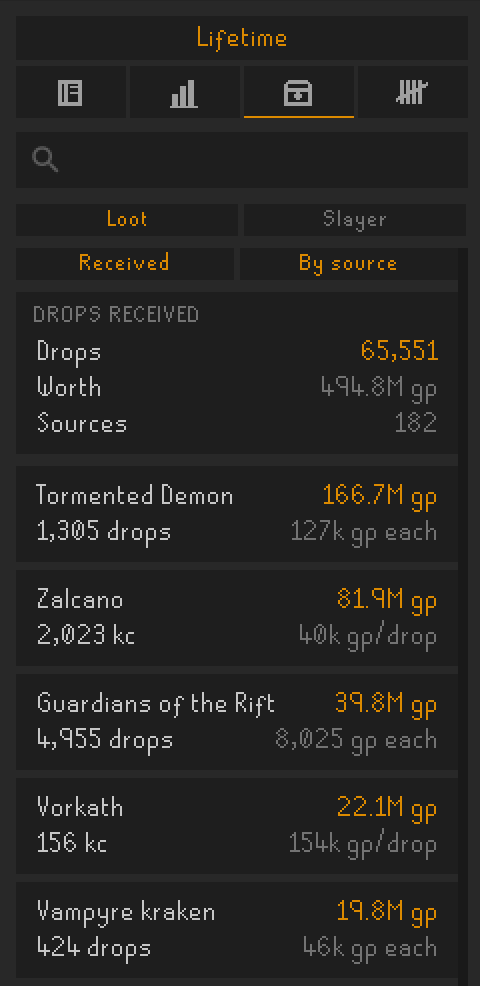
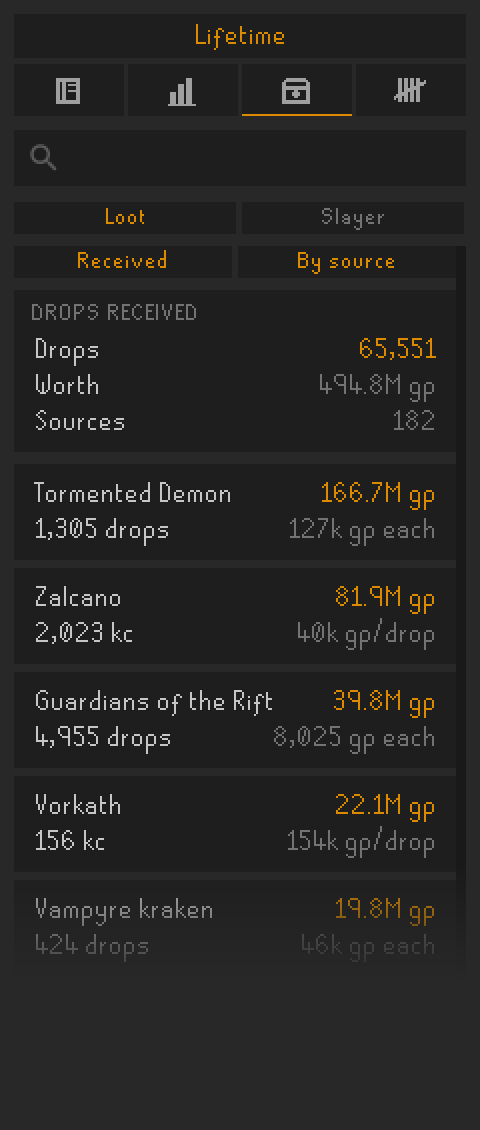
Frame the README screenshots to one size

diff --git a/tools/frame_shot.py b/tools/frame_shot.py
@@ -1,0 +1,43 @@
+"""Put client screenshots of the panel on one canvas size for the README.
+
+    python3 tools/frame_shot.py docs/img/*.png
+"""
+import sys
+from PIL import Image
+
+BG = (40, 40, 40)
+PANEL_W = 452
+MARGIN = 14
+W, H = PANEL_W + 2 * MARGIN, 1130
+FADE = 120
+
+
+def differs(p):
+    return p[3] and max(abs(c - b) for c, b in zip(p[:3], BG)) > 6
+
+
+def frame(path):
+    shot = Image.open(path).convert('RGBA')
+    flat = Image.new('RGBA', shot.size, BG + (255,))
+    flat.alpha_composite(shot)
+    px = flat.load()
+    w, h = flat.size
+    top = next(y for y in range(h) if sum(differs(px[x, y]) for x in range(w)) > 300)
+    left = next(x for x in range(w) if differs(px[x, top]))
+    bottom = max(y for y in range(h) for x in range(left, min(w, left + PANEL_W)) if differs(px[x, y]))
+    cut = bottom >= h - 3
+    keep = min(bottom + 1 - top, H - 2 * MARGIN)
+    out = Image.new('RGB', (W, H), BG)
+    out.paste(flat.crop((left, top, left + PANEL_W, top + keep)).convert('RGB'), (MARGIN, MARGIN))
+    if cut or bottom + 1 - top > keep:
+        o = out.load()
+        for i in range(FADE):
+            y = MARGIN + keep - FADE + i
+            a = (i + 1) / FADE
+            for x in range(MARGIN, MARGIN + PANEL_W):
+                o[x, y] = tuple(round(c * (1 - a) + b * a) for c, b in zip(o[x, y], BG))
+    out.save(path, optimize=True)
+
+
+for p in sys.argv[1:]:
+    frame(p)

diff --git a/tools/README.md b/tools/README.md
@@ -26,3 +26,11 @@ table after a tier heading is the audio player.
 RuneLite has the same data in compiled per-region classes, but `DiaryRequirement`
 is package private and reading it would mean reflecting into another plugin, so
 the plugin bundles its own copy.
+
+## `frame_shot.py`
+
+    python3 tools/frame_shot.py docs/img/*.png
+
+Crops client screenshots of the panel to the panel itself and puts each one on the
+same 480x1130 canvas, fading out anything taller, so the README shots line up.
+Needs Pillow. It rewrites the files in place.
